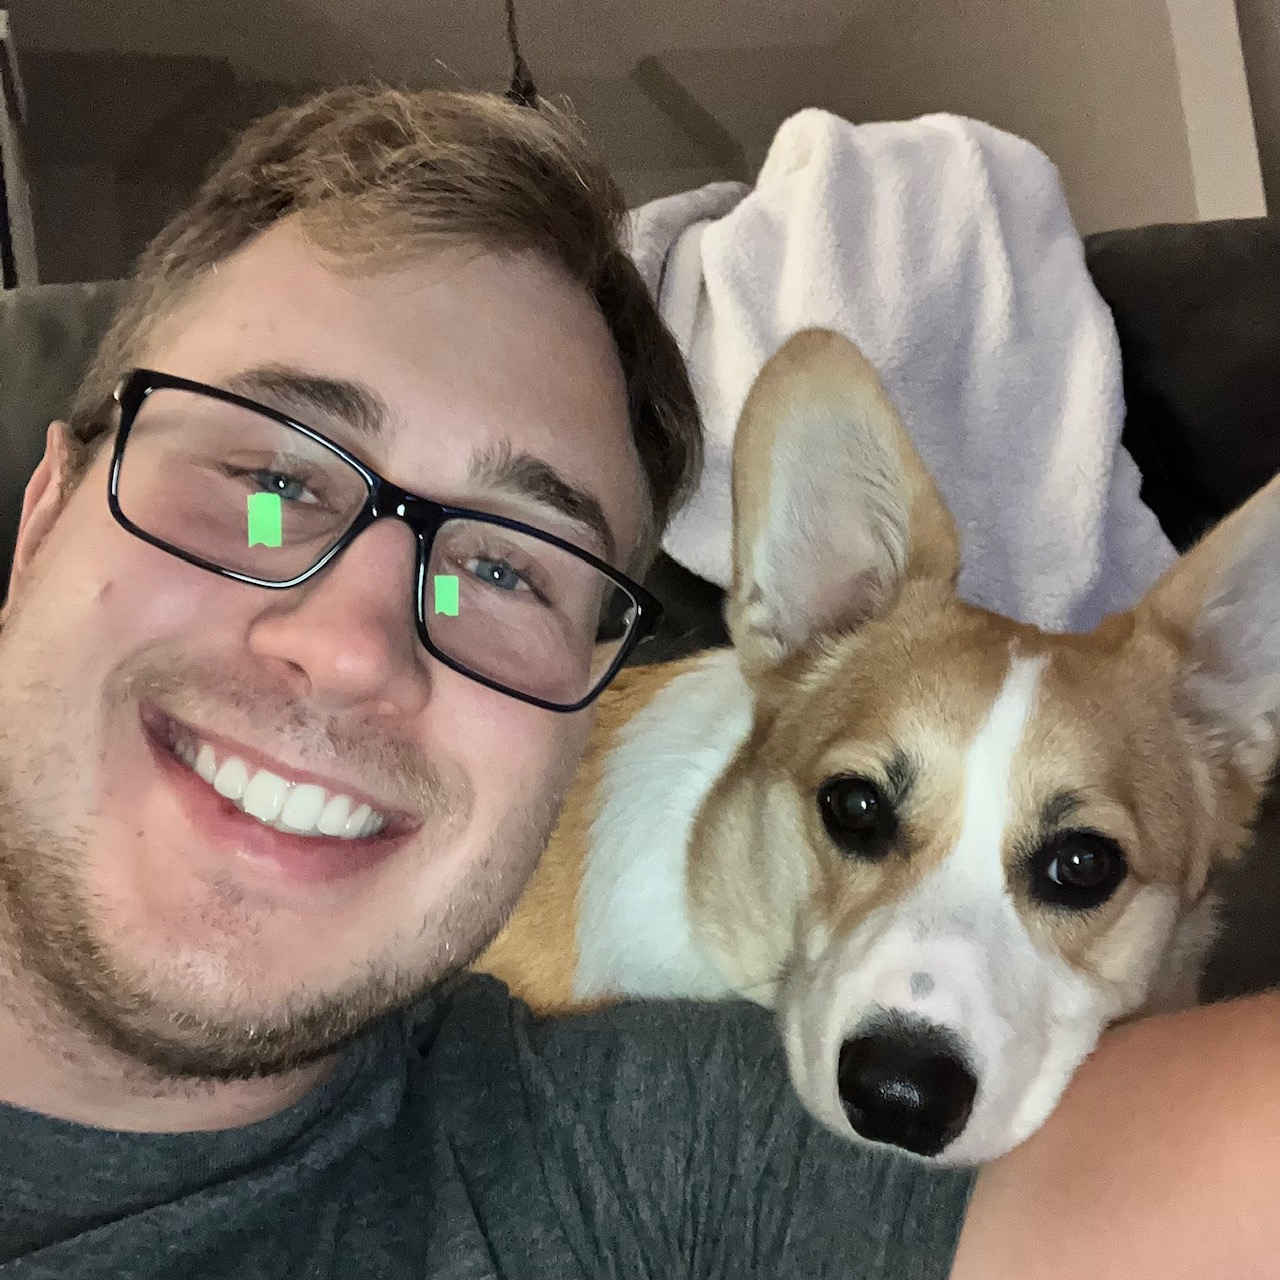
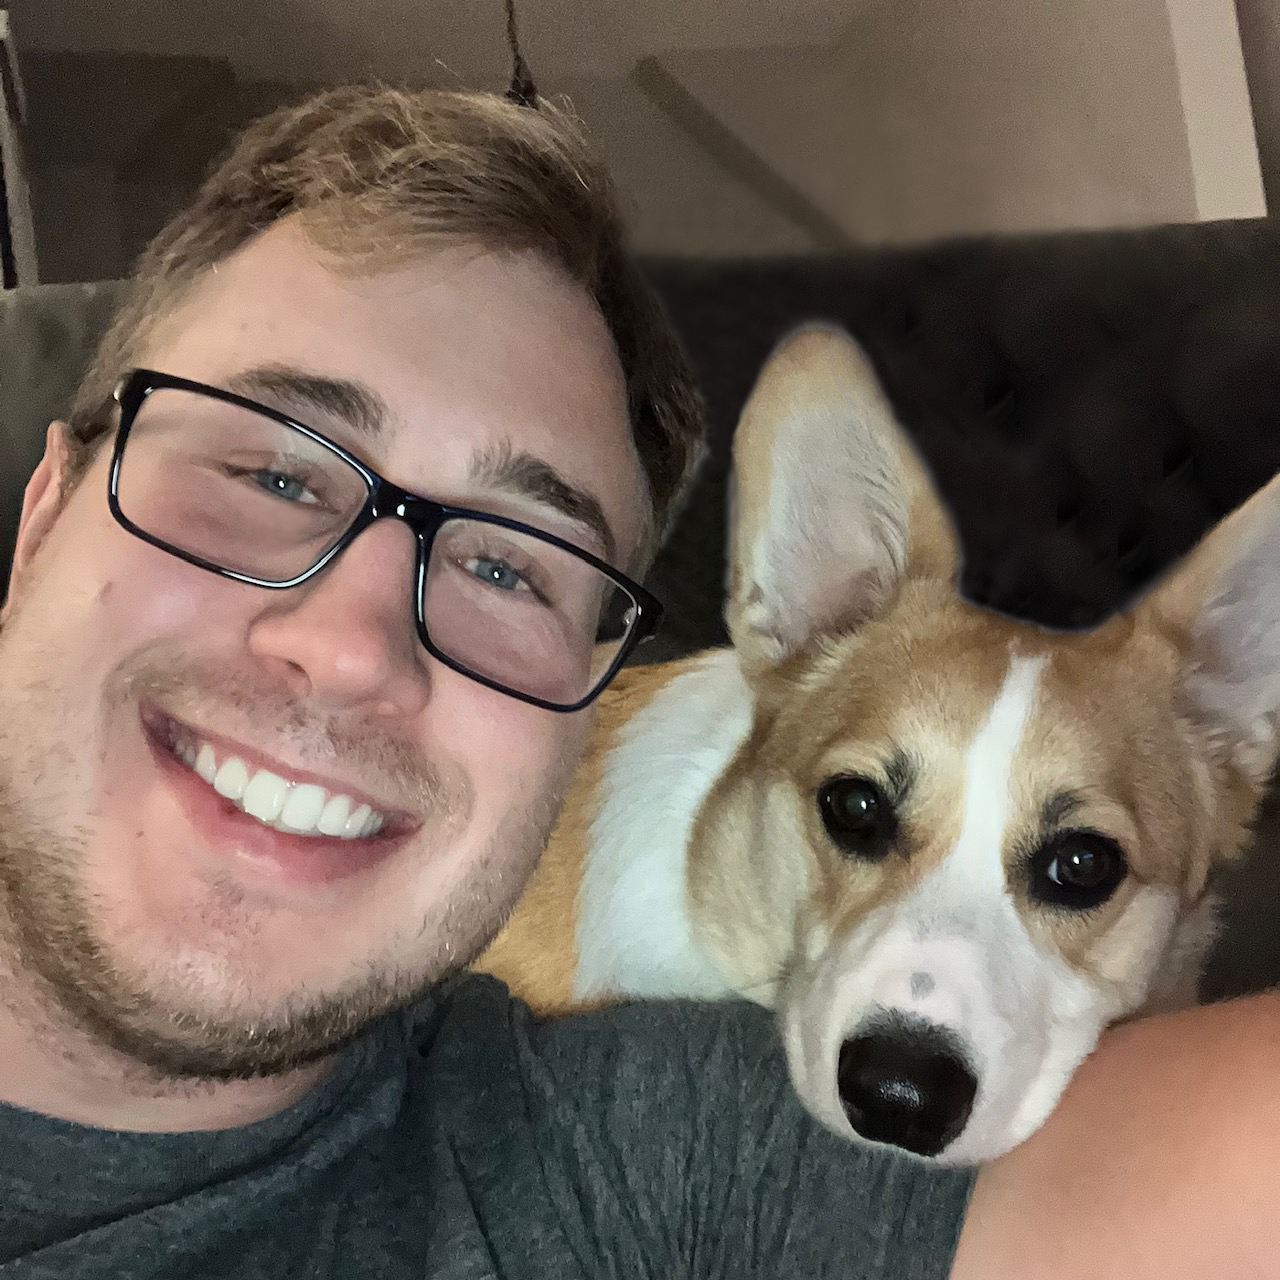
added nav and about changes

Changed region(s): [[0.4688, 0.0625, 0.9375, 0.5], [0.3125, 0.4375, 0.375, 0.5], [0.1875, 0.375, 0.25, 0.4375]]

diff --git a/src/sections/About.tsx b/src/sections/About.tsx
@@ -1,12 +1,11 @@
 import React from 'react';
 import { FiChevronDown } from 'react-icons/fi';
 import { Box, Image, Text } from 'theme-ui';
-import { SiJavascript, SiTypescript, SiReact, SiStrapi, SiGraphql } from 'react-icons/si'
-import {TbBrandNextjs} from 'react-icons/tb';
+import { TechGrid } from 'src/components';
 
 export const About = () => {
   return (
-    <Box sx={{
+    <Box id='about' sx={{
       px: ['25px', '50px', '100px', '150px'],
       m: '0 auto',
       maxWidth: '1600px',
@@ -46,85 +45,7 @@ export const About = () => {
             <Text variant='body' sx={{mb: '20px'}}>In college, I decided to pursue the business side of Information Technology, graduating with a B.B.A. in Management Information Systems in 2015. It wasn't until 2020 that I decided to pursue a new career as a software engineer.</Text>
             <Text variant='body' sx={{mb: '20px'}}>I started teaching myself programming at night, and applying the skills I was learning to my new position as a software developer during the day. I rediscovered that same enthusiam and passion in developing websites that I would get as a child building LEGO sets and that passion has fueled my career to this day.</Text>
             <Text variant='body' sx={{mb: '20px'}}>Below are some technologies I am currently using:</Text>
-            <Box sx={{
-              display: 'grid',
-              gridTemplateColumns: 'repeat(2, minmax(140px, 200px))',
-              gap: '10px',
-              mb: '10px',
-            }}>
-              <Box sx={{
-                display: 'flex',
-                alignItems: 'center',
-                '& svg': {
-                  mr: '8px',
-                  display: 'block',
-                  color: 'white'
-                }
-              }}>
-                <SiJavascript />
-                <Text variant='gridTech'>JavaScript</Text>
-              </Box>
-              <Box sx={{
-                display: 'flex',
-                alignItems: 'center',
-                '& svg': {
-                  mr: '8px',
-                  display: 'block',
-                  color: 'white'
-                }
-              }}>
-                <SiTypescript />
-                <Text variant='gridTech'>TypeScript</Text>
-              </Box>
-              <Box sx={{
-                display: 'flex',
-                alignItems: 'center',
-                '& svg': {
-                  mr: '8px',
-                  display: 'block',
-                  color: 'white'
-                }
-              }}>
-                <SiReact />
-                <Text variant='gridTech'>React</Text>
-              </Box>
-              <Box sx={{
-                display: 'flex',
-                alignItems: 'center',
-                '& svg': {
-                  mr: '8px',
-                  display: 'block',
-                  color: 'white'
-                }
-              }}>
-                <TbBrandNextjs />
-                <Text variant='gridTech'>NextJS</Text>
-              </Box>
-              <Box sx={{
-                display: 'flex',
-                alignItems: 'center',
-                '& svg': {
-                  mr: '8px',
-                  display: 'block',
-                  color: 'white'
-                }
-              }}>
-                <SiStrapi />
-                <Text variant='gridTech'>Strapi</Text>
-              </Box>
-              <Box sx={{
-                display: 'flex',
-                alignItems: 'center',
-                '& svg': {
-                  mr: '8px',
-                  display: 'block',
-                  color: 'white'
-                }
-              }}>
-                <SiGraphql />
-                <Text variant='gridTech'>GraphQL</Text>
-              </Box>
-            </Box>
+            <TechGrid />
           </Box>
           <Box sx={{
             position: 'relative',
@@ -135,23 +56,11 @@ export const About = () => {
             <Box sx={{
               position: 'relative',
               width: '100%',
-              '&:before': {
-                content: '""',
-                display: 'block',
-                position: 'absolute',
-                width: '100%',
-                height: '100%',
-                top: 0,
-                left: 0,
-                bg: 'yellow',
-                mixBlendMode: 'screen',
-              }
             }}>
               <Image sx={{
                 position: 'relative',
-                mixBlendMode: 'multiply',
                 width: '100%',
-                filter: 'grayscale(100%) contrast(1)',
+                filter: 'grayscale(100%)',
               }}
               src={`${process.env.PUBLIC_URL}/images/profile.jpg`}/>
             </Box>

diff --git a/src/sections/Nav.tsx b/src/sections/Nav.tsx
@@ -1,0 +1,94 @@
+import React, { useEffect, useState } from 'react';
+import { Box, Link, Text } from 'theme-ui';
+import { GiHamburgerMenu } from 'react-icons/gi'
+
+export const Nav = () => {
+  const [checked, setChecked] = useState(false);
+
+  useEffect(() => {
+    const nav = document.getElementById('nav') as HTMLElement;
+    const homeNav = document.getElementById('homeNav') as HTMLElement;
+    const about = document.getElementById('about') as HTMLElement;
+    const aboutNav = document.getElementById('aboutNav') as HTMLElement;
+    const projects = document.getElementById('projects') as HTMLElement;
+    const projectsNav = document.getElementById('projectsNav') as HTMLElement;
+   
+
+    window.addEventListener('scroll', (e) => {
+      if(window.scrollY >= 100) nav.style.borderColor = '#FFFF82';
+      else nav.style.borderColor = '#131B23';
+
+      if(about.getBoundingClientRect().top > 0) homeNav.style.color = '#FFFF82'
+      else homeNav.style.color = 'white';
+
+      if(about.getBoundingClientRect().top <= 0 && projects.getBoundingClientRect().top > 1) aboutNav.style.color = '#FFFF82'
+      else aboutNav.style.color = 'white';
+      
+      if(projects.getBoundingClientRect().top <= 1) projectsNav.style.color = '#FFFF82'
+      else projectsNav.style.color = 'white';
+    })
+  }, []);
+
+  return (
+    <Box id='nav' sx={{
+      position: 'fixed',
+      bg: 'darkBlue',
+      width: '100%',
+      height: '50px',
+      display: 'flex',
+      alignItems: 'center',
+      justifyContent: ['flex-end', 'flex-end', 'center'],
+      borderBottom: '2px solid',
+      borderColor: 'darkBlue',
+      zIndex: 15,
+      pr: '15px',
+      transition: 'all 0.3s',
+    }}>
+      <Box 
+        onClick={() => setChecked(!checked)}
+        sx={{
+          display: ['block', 'block', 'none'],
+          color: 'main',
+          '& svg': {
+            display: 'block',
+            size: '36px',
+          }
+        }}
+      >
+        <GiHamburgerMenu />
+      </Box>
+      <Box sx={{
+        height: [checked ? '150px' : '0px', checked ? '150px' : '0px', 'initial'],
+        display: 'block',
+        bg: ['#2b3643', '#2b3643', 'darkBlue'],
+        position: ['absolute', 'absolute', 'initial'],
+        overflow: 'hidden',
+        top: '50px',
+        maxWidth: '1200px',
+        left: 0,
+        width: '100%',
+        transition: 'height 0.3s ease-out',
+        '& a': {
+          padding: '15px 20px 6px 20px',
+          display: ['block', 'block', 'inline']
+        }
+      }}>
+        <Link href='#home' sx={{textDecoration: 'none'}}><Text variant='nav' id='homeNav' sx={{color: 'yellow'}}>Home</Text></Link>
+        <Link href='#about' sx={{textDecoration: 'none'}}><Text variant='nav' id='aboutNav'>About Me</Text></Link>
+        <Link href='#projects' sx={{textDecoration: 'none'}}><Text variant='nav' id='projectsNav'>Projects</Text></Link>
+      </Box>
+      {/* <Box sx={{
+        display: 'flex',
+        maxWidth: '1200px',
+        width: '100%',
+        '& a': {
+          mx: '20px'
+        }
+      }}>
+        <Link href='#home' sx={{textDecoration: 'none'}}><Text variant='nav' id='homeNav' sx={{color: 'yellow'}}>Home</Text></Link>
+        <Link href='#about' sx={{textDecoration: 'none'}}><Text variant='nav' id='aboutNav'>About Me</Text></Link>
+        <Link href='#projects' sx={{textDecoration: 'none'}}><Text variant='nav' id='projectsNav'>Projects</Text></Link>
+      </Box> */}
+    </Box>
+  );
+}

diff --git a/src/components/TechGrid.tsx b/src/components/TechGrid.tsx
@@ -1,0 +1,89 @@
+import React from 'react';
+import { Box, Text } from 'theme-ui';
+import { SiJavascript, SiTypescript, SiReact, SiStrapi, SiGraphql } from 'react-icons/si'
+import {TbBrandNextjs} from 'react-icons/tb';
+
+export const TechGrid = () => {
+
+  return (
+    <Box sx={{
+      display: 'grid',
+      gridTemplateColumns: 'repeat(2, minmax(140px, 200px))',
+      gap: '10px',
+      mb: '10px',
+    }}>
+      <Box sx={{
+        display: 'flex',
+        alignItems: 'center',
+        '& svg': {
+          mr: '8px',
+          display: 'block',
+          color: 'white'
+        }
+      }}>
+        <SiJavascript />
+        <Text variant='gridTech'>JavaScript</Text>
+      </Box>
+      <Box sx={{
+        display: 'flex',
+        alignItems: 'center',
+        '& svg': {
+          mr: '8px',
+          display: 'block',
+          color: 'white'
+        }
+      }}>
+        <SiTypescript />
+        <Text variant='gridTech'>TypeScript</Text>
+      </Box>
+      <Box sx={{
+        display: 'flex',
+        alignItems: 'center',
+        '& svg': {
+          mr: '8px',
+          display: 'block',
+          color: 'white'
+        }
+      }}>
+        <SiReact />
+        <Text variant='gridTech'>React</Text>
+      </Box>
+      <Box sx={{
+        display: 'flex',
+        alignItems: 'center',
+        '& svg': {
+          mr: '8px',
+          display: 'block',
+          color: 'white'
+        }
+      }}>
+        <TbBrandNextjs />
+        <Text variant='gridTech'>NextJS</Text>
+      </Box>
+      <Box sx={{
+        display: 'flex',
+        alignItems: 'center',
+        '& svg': {
+          mr: '8px',
+          display: 'block',
+          color: 'white'
+        }
+      }}>
+        <SiStrapi />
+        <Text variant='gridTech'>Strapi</Text>
+      </Box>
+      <Box sx={{
+        display: 'flex',
+        alignItems: 'center',
+        '& svg': {
+          mr: '8px',
+          display: 'block',
+          color: 'white'
+        }
+      }}>
+        <SiGraphql />
+        <Text variant='gridTech'>GraphQL</Text>
+      </Box>
+    </Box>
+  );
+}

diff --git a/src/App.tsx b/src/App.tsx
@@ -2,7 +2,7 @@ import { ThemeProvider } from 'theme-ui';
 import React from 'react';
 import 'normalize.css';
 import { theme } from './theme';
-import { Footer, Hero, Portfolio, About } from './sections'
+import { Footer, Hero, Portfolio, About, Nav } from './sections'
 import projectData from './data/projectData.json'
 
 
@@ -10,6 +10,7 @@ export const App = () => {
     return (
     <ThemeProvider theme={theme}>
       <React.StrictMode>
+        <Nav />
         <Hero />
         <About />
         <Portfolio projects={projectData}/>

diff --git a/src/theme.ts b/src/theme.ts
@@ -61,6 +61,11 @@ export const theme: Theme = {
       color: 'main',
       fontSize: '14px',
     },
+    nav: {
+      fontFamily: 'body',
+      color: 'white',
+      fontSize: '20px',
+    },
     hero1: {
       fontFamily: 'body',
       color: 'yellow',

diff --git a/src/sections/Hero.tsx b/src/sections/Hero.tsx
@@ -32,7 +32,7 @@ const Trail = ({children}: TrailProps) => {
 
 export const Hero = () => {
   return (
-    <Box sx={{
+    <Box id='home' sx={{
       px: ['25px', '50px', '100px', '150px'],
       m: '0 auto',
       maxWidth: '1600px',

diff --git a/src/sections/index.ts b/src/sections/index.ts
@@ -2,3 +2,4 @@ export * from './Hero';
 export * from './Footer';
 export * from './Portfolio';
 export * from './About';
+export * from './Nav';

diff --git a/src/components/index.ts b/src/components/index.ts
@@ -1,3 +1,4 @@
 export * from './Carousel';
 export * from './Modal';
 export * from './ProjectGrid';
+export * from './TechGrid'
